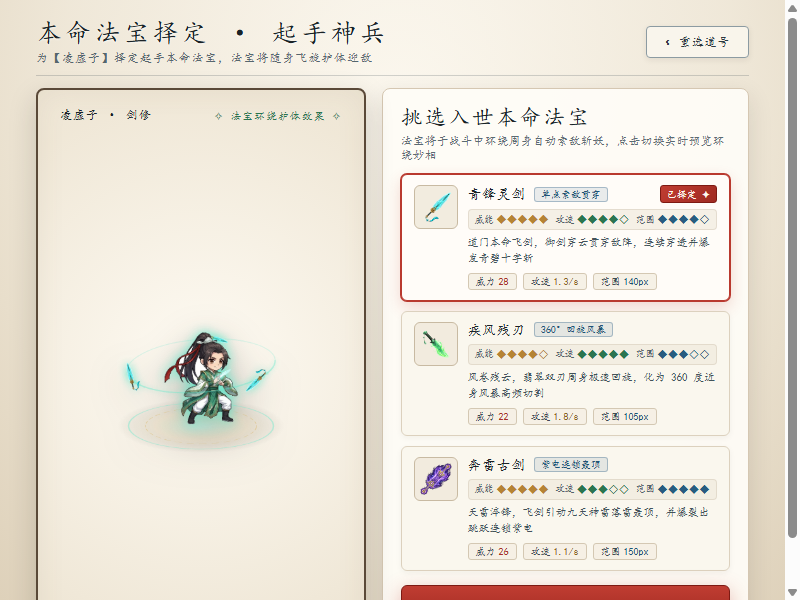
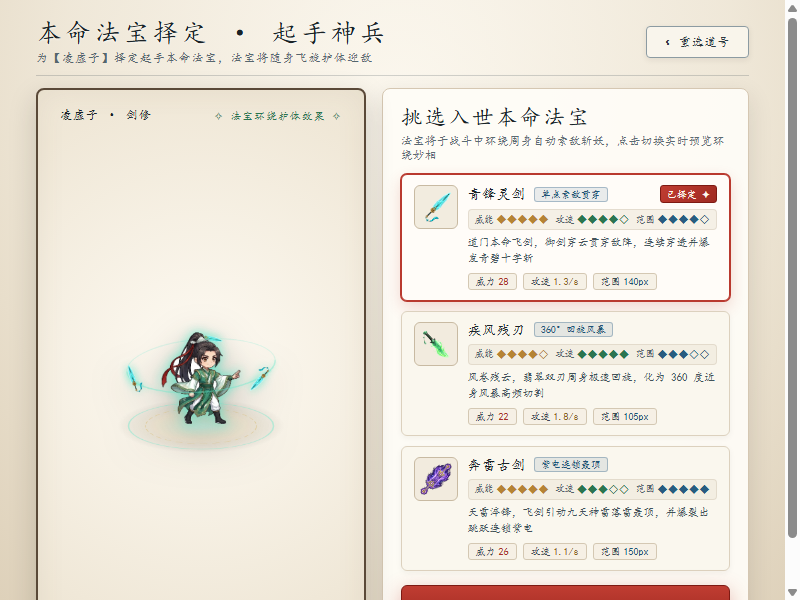
feat(map): 战斗地图全面重构为国风水墨太极仙岛演武场
- 彻底替换旧版地牢暗青色砖石与阴暗迷雾底图，重塑为云海悬空仙台『问道太极演武场』
- 核心视效：青石素玉地砖、祥云雷纹浮雕、金缮两仪太极阵盘、水墨苍松与流云出岫边缘掩映
- 移除背景上层暗青色遮罩覆盖（rgba(10, 16, 20, 0.45)），恢复水墨丹青明澈通透质感
- 优化游戏主视口与外缘画布底色（#1c1a17 / #23201b），与山水意境无缝融合
- 实测角色、御剑流光、敌怪弹幕与新版宣纸水墨HUD在全新地图上对比度与辨识度极佳
- 全量自动化测试（19套件）100% 绿灯全通

Changed region(s): [[0.1562, 0.54, 0.3438, 0.72]]

diff --git a/src/main.js b/src/main.js
@@ -15034,12 +15034,10 @@ function drawFloatingWeapons(p, weapons, elapsedVal) {
 function drawBackground() {
   if (mapLoaded && mapImg) {
     ctx.drawImage(mapImg, 0, 0, ARENA_WIDTH, ARENA_HEIGHT)
-    ctx.fillStyle = 'rgba(10, 16, 20, 0.45)'
-    ctx.fillRect(0, 0, ARENA_WIDTH, ARENA_HEIGHT)
   } else {
-    ctx.fillStyle = '#0c1618'
+    ctx.fillStyle = '#e8dec9'
     ctx.fillRect(0, 0, ARENA_WIDTH, ARENA_HEIGHT)
-    ctx.strokeStyle = '#142528'
+    ctx.strokeStyle = 'rgba(140, 120, 95, 0.25)'
     ctx.lineWidth = 1
     for (let x = 0; x < ARENA_WIDTH; x += 40) { ctx.beginPath(); ctx.moveTo(x, 0); ctx.lineTo(x, ARENA_HEIGHT); ctx.stroke() }
     for (let y = 0; y < ARENA_HEIGHT; y += 40) { ctx.beginPath(); ctx.moveTo(0, y); ctx.lineTo(ARENA_WIDTH, y); ctx.stroke() }

diff --git a/src/style.css b/src/style.css
@@ -1061,7 +1061,7 @@ button { font: inherit; }
 .screen-game {
   width: 100vw;
   height: 100vh;
-  background: #101518;
+  background: #1c1a17; /* 焦墨古道底色 */
   overflow: hidden;
   position: relative;
 }
@@ -1080,7 +1080,7 @@ button { font: inherit; }
   width: 100vw;
   height: 100vh;
   object-fit: contain;
-  background: #12181b;
+  background: #23201b;
   image-rendering: -webkit-optimize-contrast;
   image-rendering: auto;
 }
